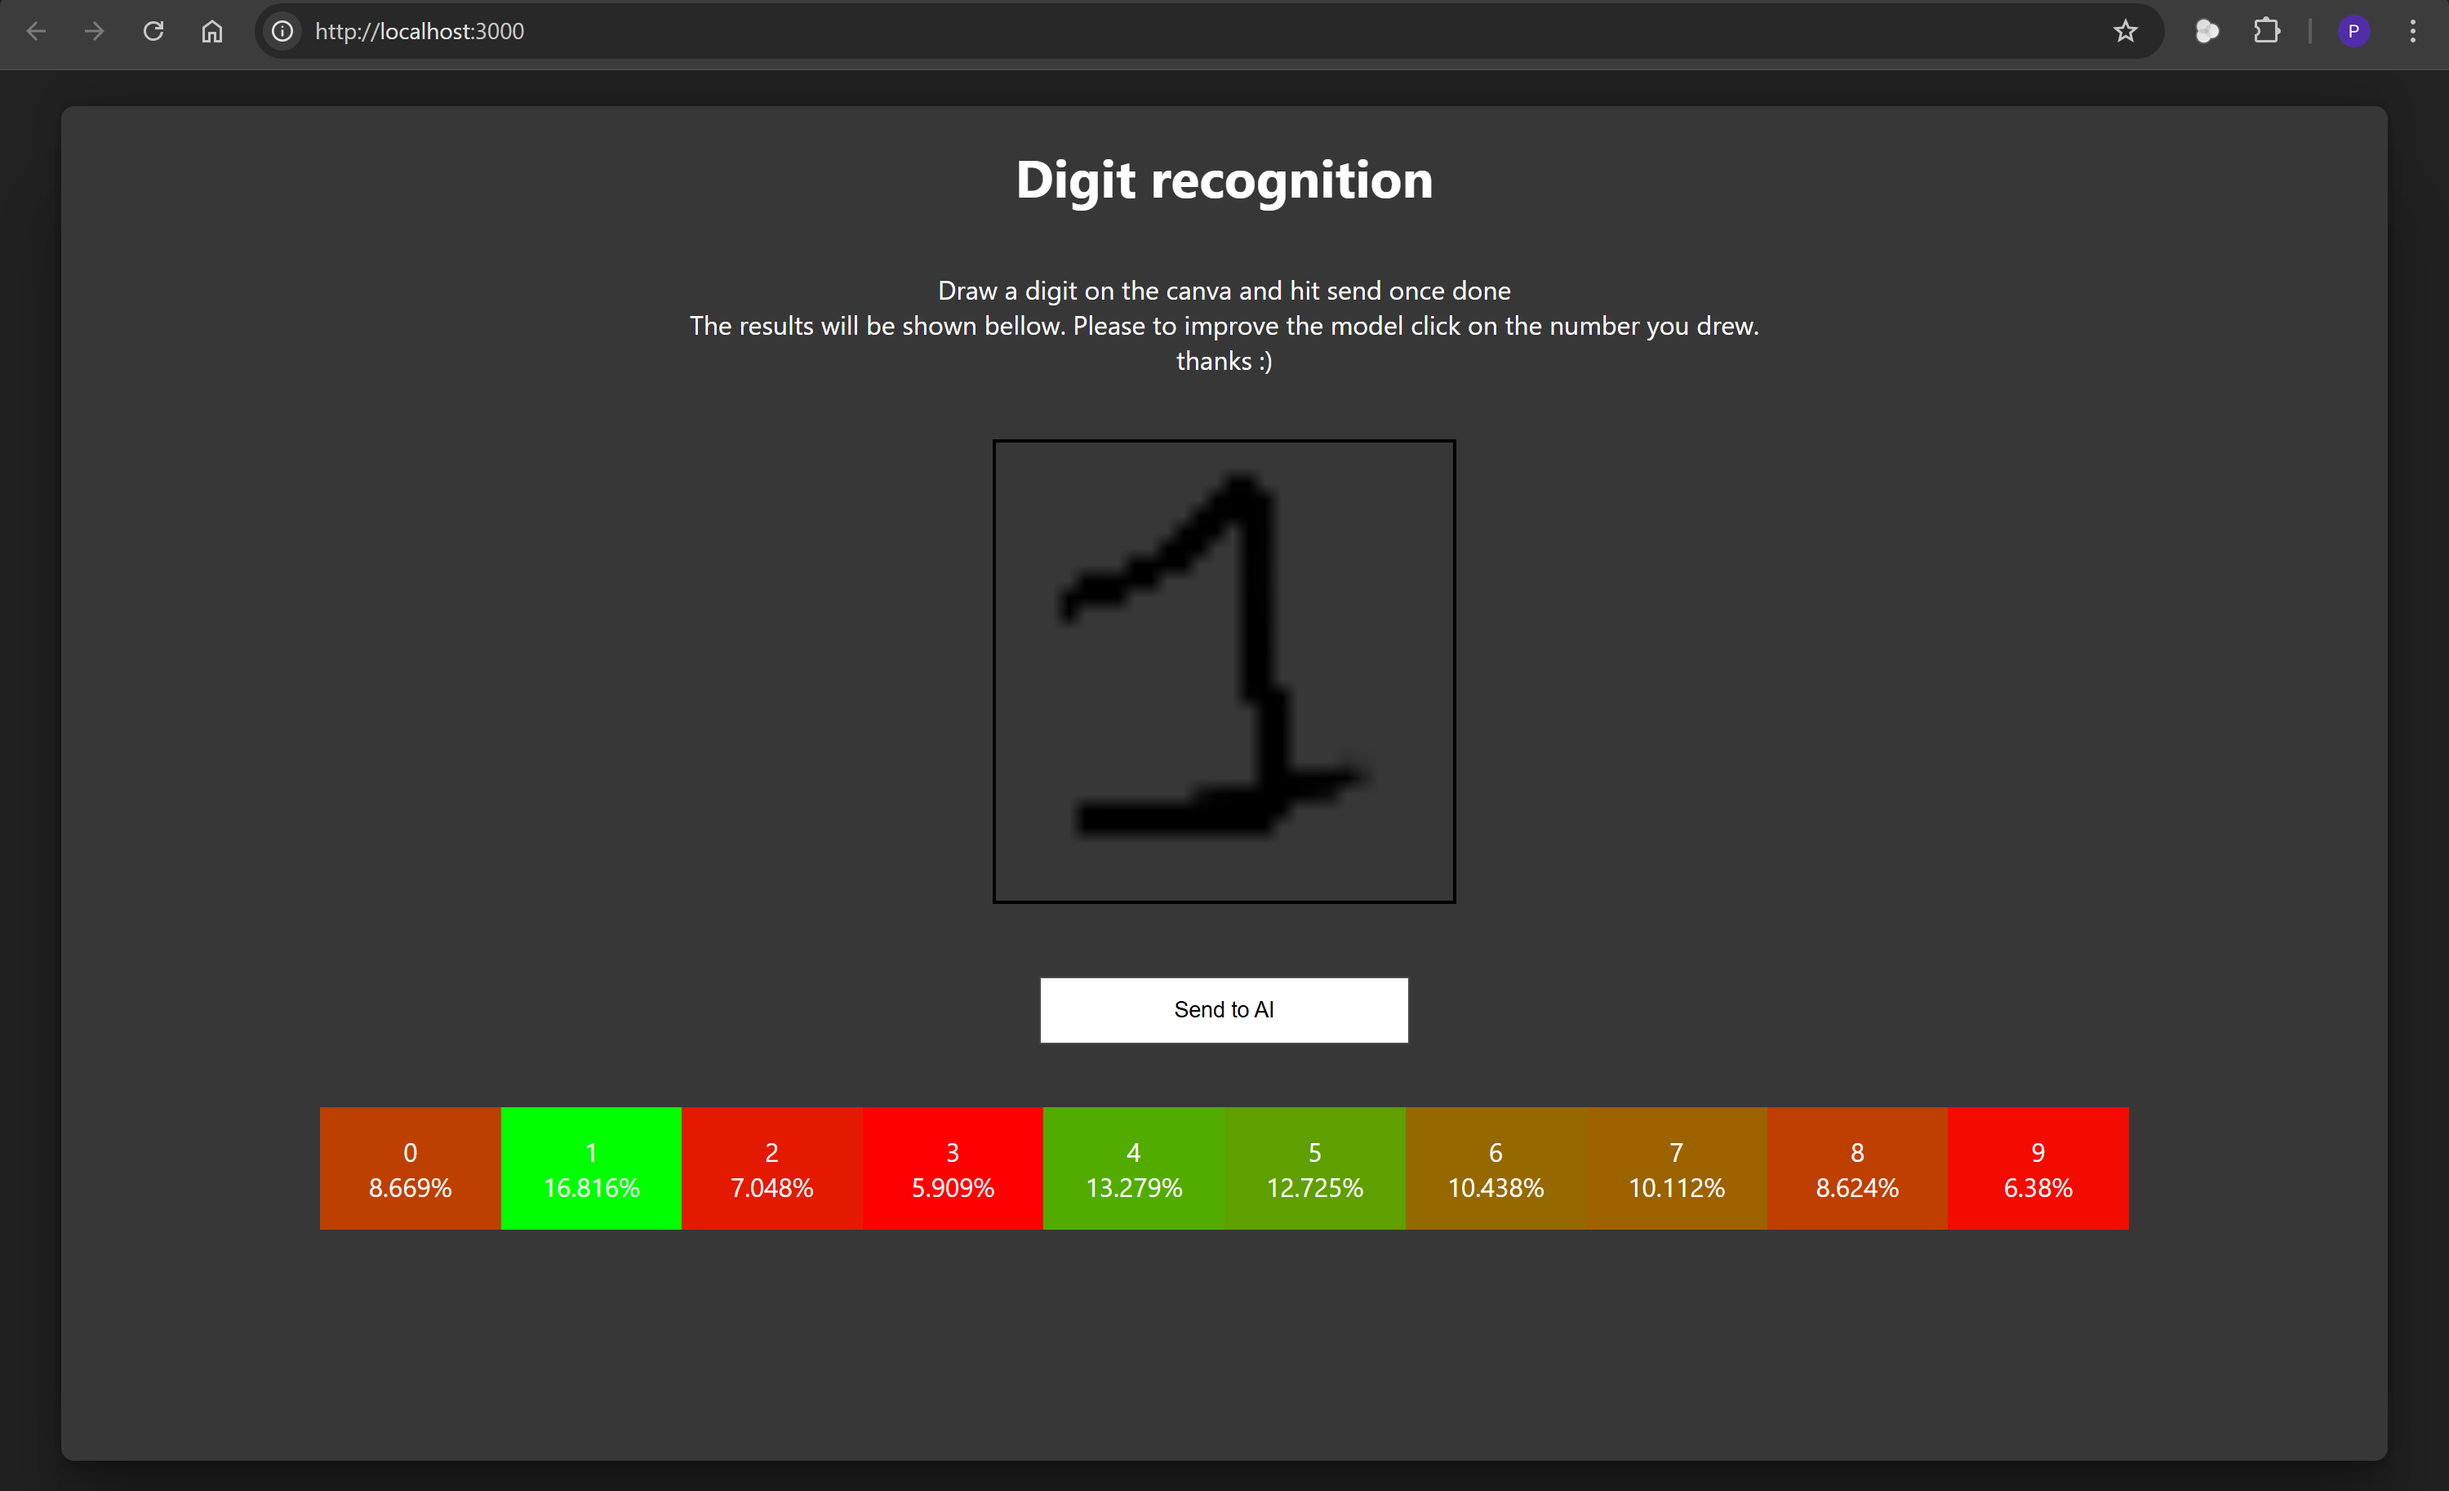
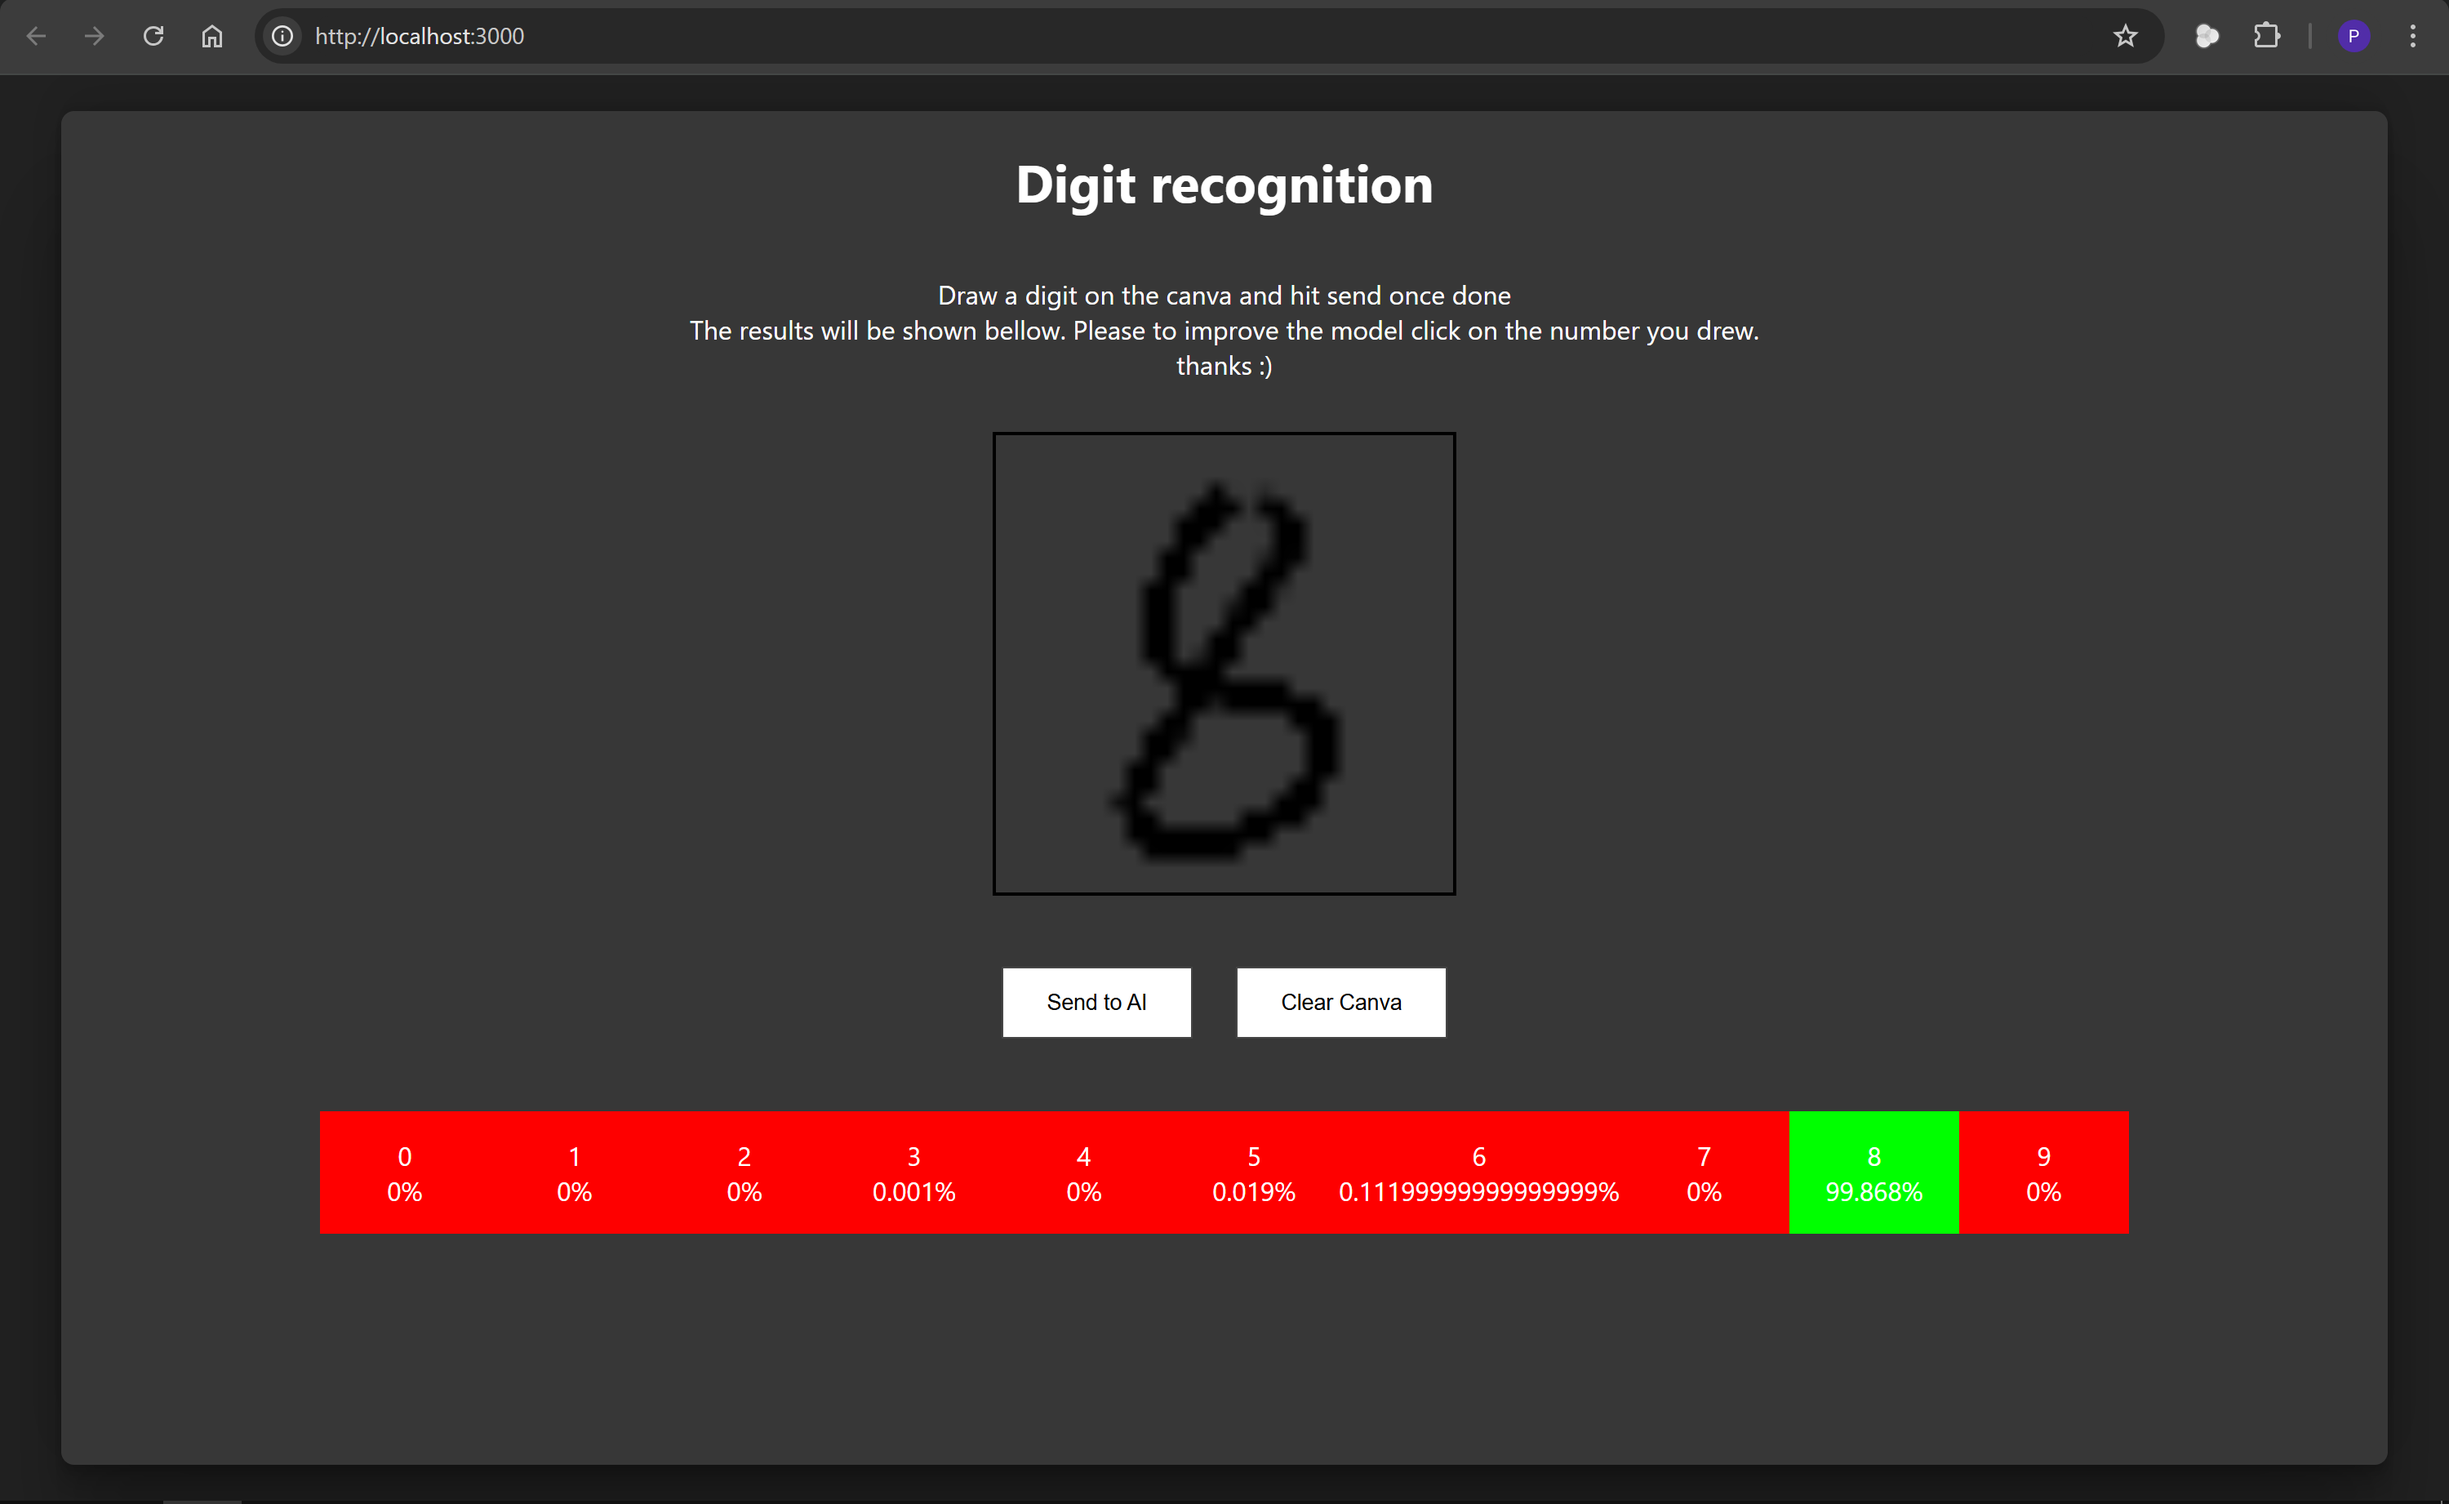
updating read me and demo image to new frontend

diff --git a/README.md b/README.md
@@ -1,0 +1,8 @@
+# Digits-recon
+
+Digits recon is a very small and simple application using react on the front end and flask in conjection with tensorflow on the backend to do a digit recognition of what you draw on the screen. 
+
+The model is not perfect but the goal of this project is to show my skills and capabilities regarding these technologies.
+
+## Overview
+![Image of demo](./demo.png)
